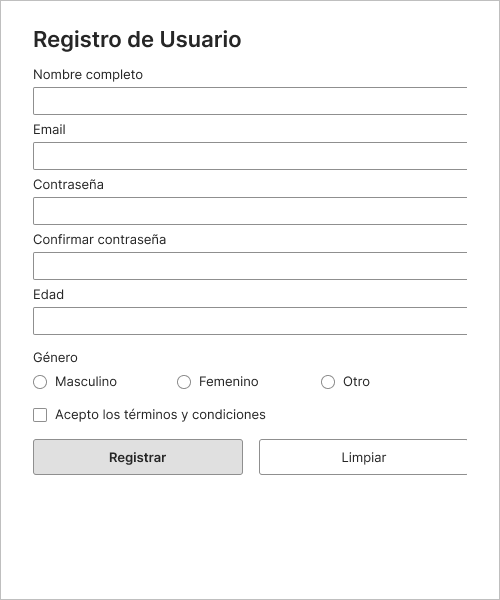
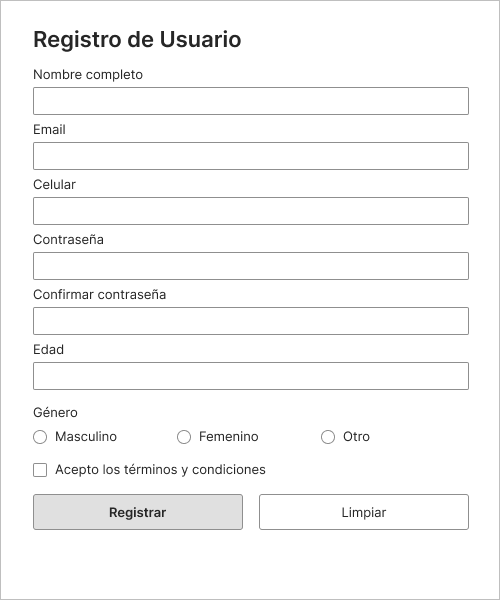
Agregando validaciones de celular, contraseña y edad en formulario

diff --git a/formulario.py b/formulario.py
@@ -15,13 +15,14 @@ class FormularioRegistro:
         # Variables del formulario
         self.nombre = tk.StringVar()
         self.email = tk.StringVar()
+        self.celular = tk.StringVar()
         self.password = tk.StringVar()
         self.confirm_pass = tk.StringVar()
         self.edad = tk.StringVar()
         self.genero = tk.StringVar(value="Sin seleccionar")
         self.acepto = tk.BooleanVar(value=False)
 
-        # Crear los elementos
+        # Crear los elementos del formulario
         self.crear_widgets()
 
     def crear_widgets(self):
@@ -49,6 +50,7 @@ class FormularioRegistro:
         campos = [
             ("Nombre completo:", self.nombre, False),
             ("Email:", self.email, False),
+            ("Celular:", self.celular, False),
             ("Contraseña:", self.password, True),
             ("Confirmar contraseña:", self.confirm_pass, True),
             ("Edad:", self.edad, False)
@@ -61,7 +63,7 @@ class FormularioRegistro:
                 text=label,
                 anchor="e"
             ).grid(
-                row=i+1,
+                row=i + 1,
                 column=0,
                 sticky="e",
                 pady=5,
@@ -76,7 +78,7 @@ class FormularioRegistro:
             )
 
             entry.grid(
-                row=i+1,
+                row=i + 1,
                 column=1,
                 pady=5,
                 sticky="w"
@@ -87,7 +89,7 @@ class FormularioRegistro:
             frame,
             text="Genero:"
         ).grid(
-            row=6,
+            row=7,
             column=0,
             sticky="e",
             pady=5
@@ -95,7 +97,7 @@ class FormularioRegistro:
 
         genero_frame = tk.Frame(frame)
         genero_frame.grid(
-            row=6,
+            row=7,
             column=1,
             sticky="w"
         )
@@ -108,13 +110,13 @@ class FormularioRegistro:
                 value=opcion
             ).pack(side="left", padx=3)
 
-        # Casilla de terminos
+        # Casilla de terminos y condiciones
         tk.Checkbutton(
             frame,
             text="Acepto los terminos y condiciones",
             variable=self.acepto
         ).grid(
-            row=7,
+            row=8,
             column=0,
             columnspan=2,
             pady=10
@@ -123,7 +125,7 @@ class FormularioRegistro:
         # Contenedor de botones
         btn_frame = tk.Frame(frame)
         btn_frame.grid(
-            row=8,
+            row=9,
             column=0,
             columnspan=2,
             pady=15
@@ -153,9 +155,11 @@ class FormularioRegistro:
 
         # Validar nombre
         if not self.nombre.get().strip():
-            errores.append("El nombre es obligatorio")
+            errores.append(
+                "El nombre es obligatorio"
+            )
 
-        # Validar correo
+        # Validar correo electronico
         email = self.email.get().strip()
 
         if not re.fullmatch(
@@ -163,6 +167,14 @@ class FormularioRegistro:
         ):
             errores.append(
                 "Email invalido (debe contener @ y dominio)"
+            )
+
+        # Validar celular 
+        celular = self.celular.get().strip()
+
+        if not re.fullmatch(r"9\d{8}", celular):
+            errores.append(
+                "El celular debe tener 9 digitos y empezar con 9"
             )
 
         # Validar contraseña
@@ -213,13 +225,15 @@ class FormularioRegistro:
             messagebox.showinfo(
                 "Registro exitoso",
                 f"¡Bienvenido {self.nombre.get()}!\n"
-                f"Email: {self.email.get()}"
+                f"Email: {self.email.get()}\n"
+                f"Celular: {self.celular.get()}"
             )
 
     # Limpiar todos los campos
     def limpiar(self):
         self.nombre.set("")
         self.email.set("")
+        self.celular.set("")
         self.password.set("")
         self.confirm_pass.set("")
         self.edad.set("")
@@ -227,7 +241,7 @@ class FormularioRegistro:
         self.acepto.set(False)
 
 
-# Ejecutar el programa
+# Ejecutar el formulario
 if __name__ == "__main__":
     app = FormularioRegistro()
     app.root.mainloop()
